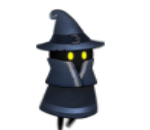
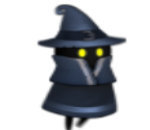
add jump sound

Changed region(s): [[0.24, 0.0308, 0.8533, 1.0]]

diff --git a/src/scenes/Game.js b/src/scenes/Game.js
@@ -39,8 +39,14 @@ export default class Game extends Phaser.Scene{
         // load the player image
         this.load.image('wizkid_stand', 'assets/wizbizstand.png')
 
+        // player jump image
+        this.load.image('wizkid_jump', 'assets/wizbizjump.png')
+
         // load the Star collections
         this.load.image('star', 'assets/star.png')
+
+        // load audio
+        this.load.audio('jump', 'assets/sfx/phaseJump1.mp3')
 
         // cursors keys for controls
         this.cursors = this.input.keyboard.createCursorKeys()
@@ -123,6 +129,19 @@ export default class Game extends Phaser.Scene{
         {
             // this makes wizkid jump straight up
             this.player.setVelocityY(-315)
+
+            // switch to jump texture
+            this.player.setTexture('wizkid_jump')
+
+            // play jump sound
+            this.sound.play('jump')
+        }
+
+        const vy = this.player.body.velocity.y
+        if (vy > 0 && this.player.texture.key !== 'wizkid_stand')
+        {
+            // switch back to stand texture
+            this.player.setTexture('wizkid_stand')
         }
             // movement left and right
         if (this.cursors.left.isDown && !touchingDown)

diff --git a/src/scenes/GameOver.js b/src/scenes/GameOver.js
@@ -12,7 +12,7 @@ export default class GameOver extends Phaser.Scene
         const width = this.scale.width
         const height = this.scale.height
 
-        this.add.text(width * 0.5, height * 0.5, 'Game Over',{
+        this.add.text(width * 0.5, height * 0.5, 'Game Over press Spacebar to restart', 'press Space',{
             fontSize: 48
         })
         .setOrigin(0.5)
